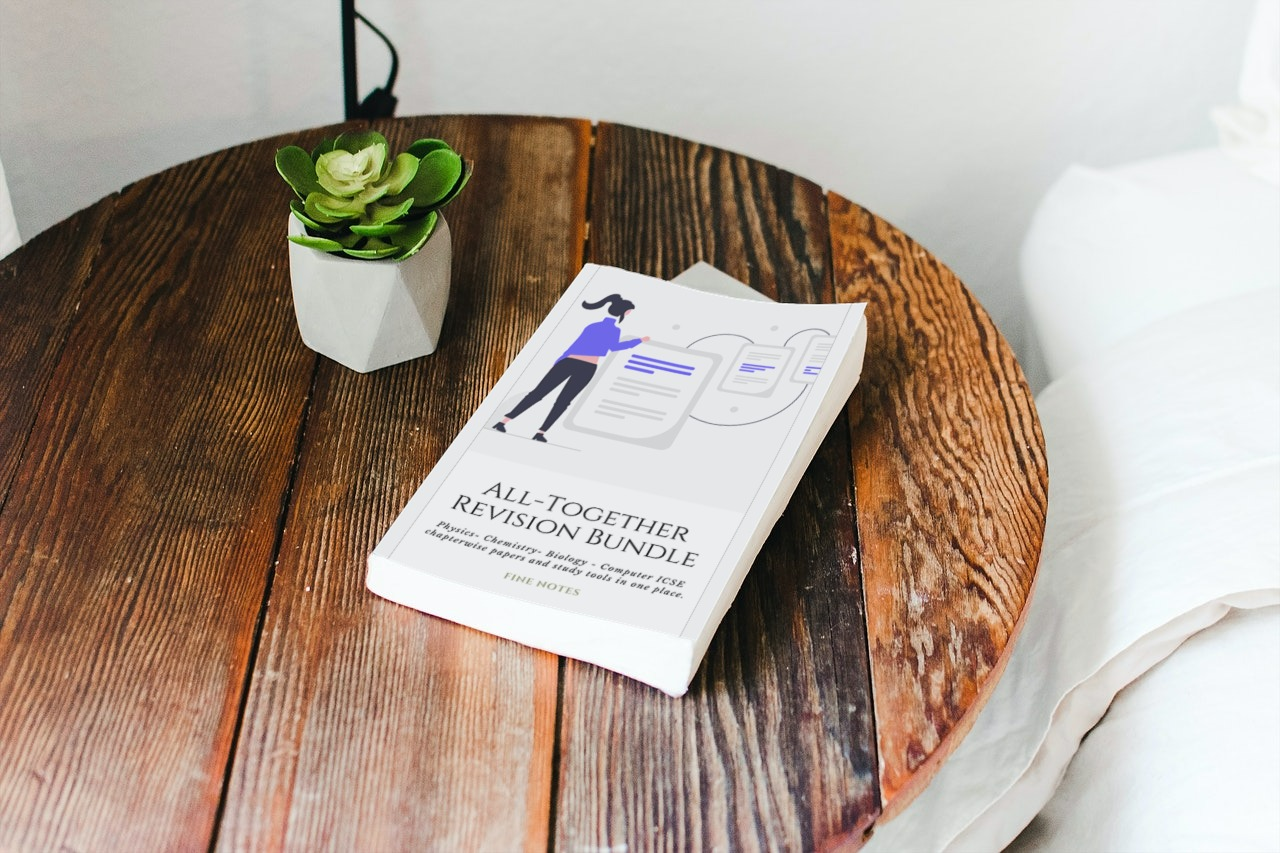
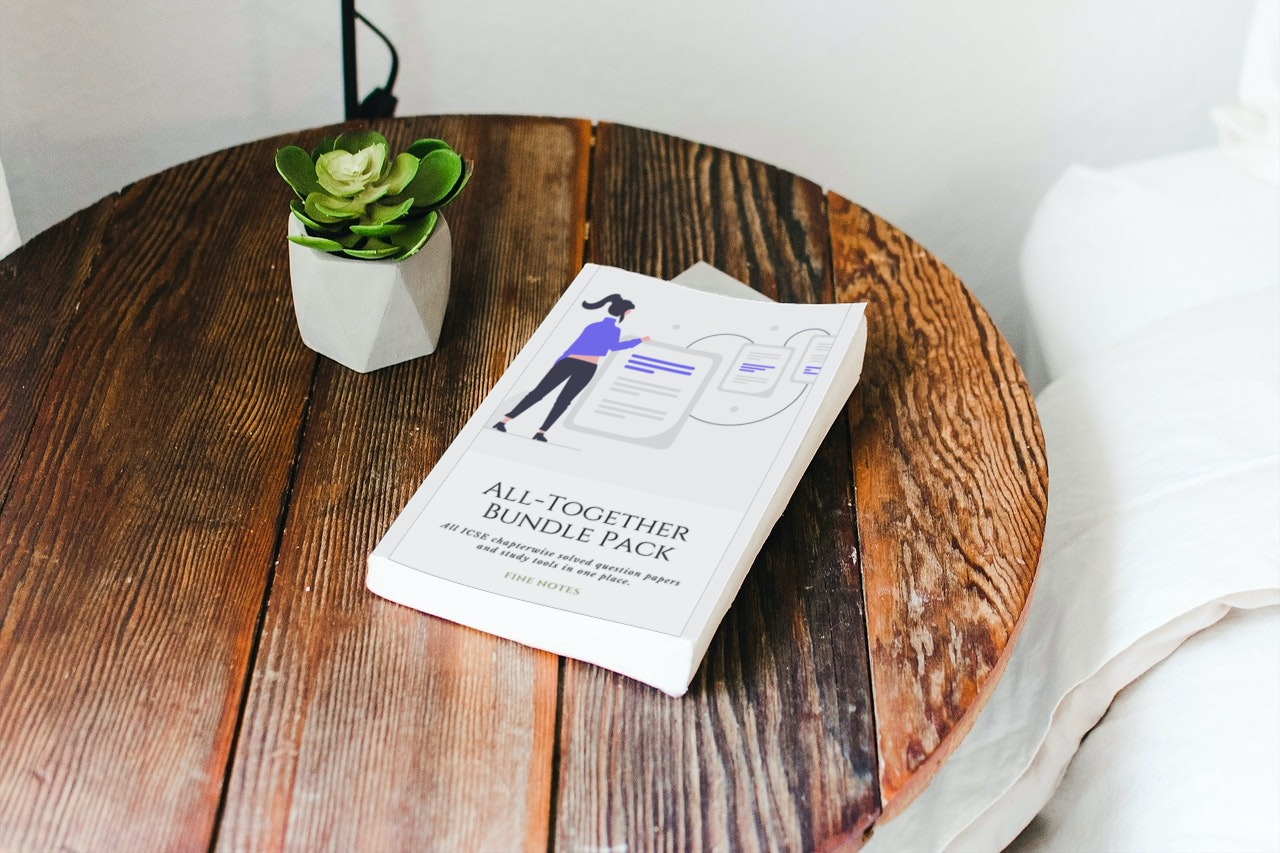
img of bundle

Changed region(s): [[0.3438, 0.5791, 0.5625, 0.7011]]

diff --git a/index.html b/index.html
@@ -467,7 +467,7 @@
                   <i class="ri-magic-line"></i>
                   <div>
                     <h4>Get extensive practice</h4>
-                    <p>We provide ICSE 10 years chapterwise solved board papers. We assure you, you won't find this anywhere else.</p>
+                    <p>We provide ICSE 10 years chapterwise solved board papers and Exclusive study tools. We assure you, you won't find this anywhere else.</p>
                   </div>
                 </div>
 
